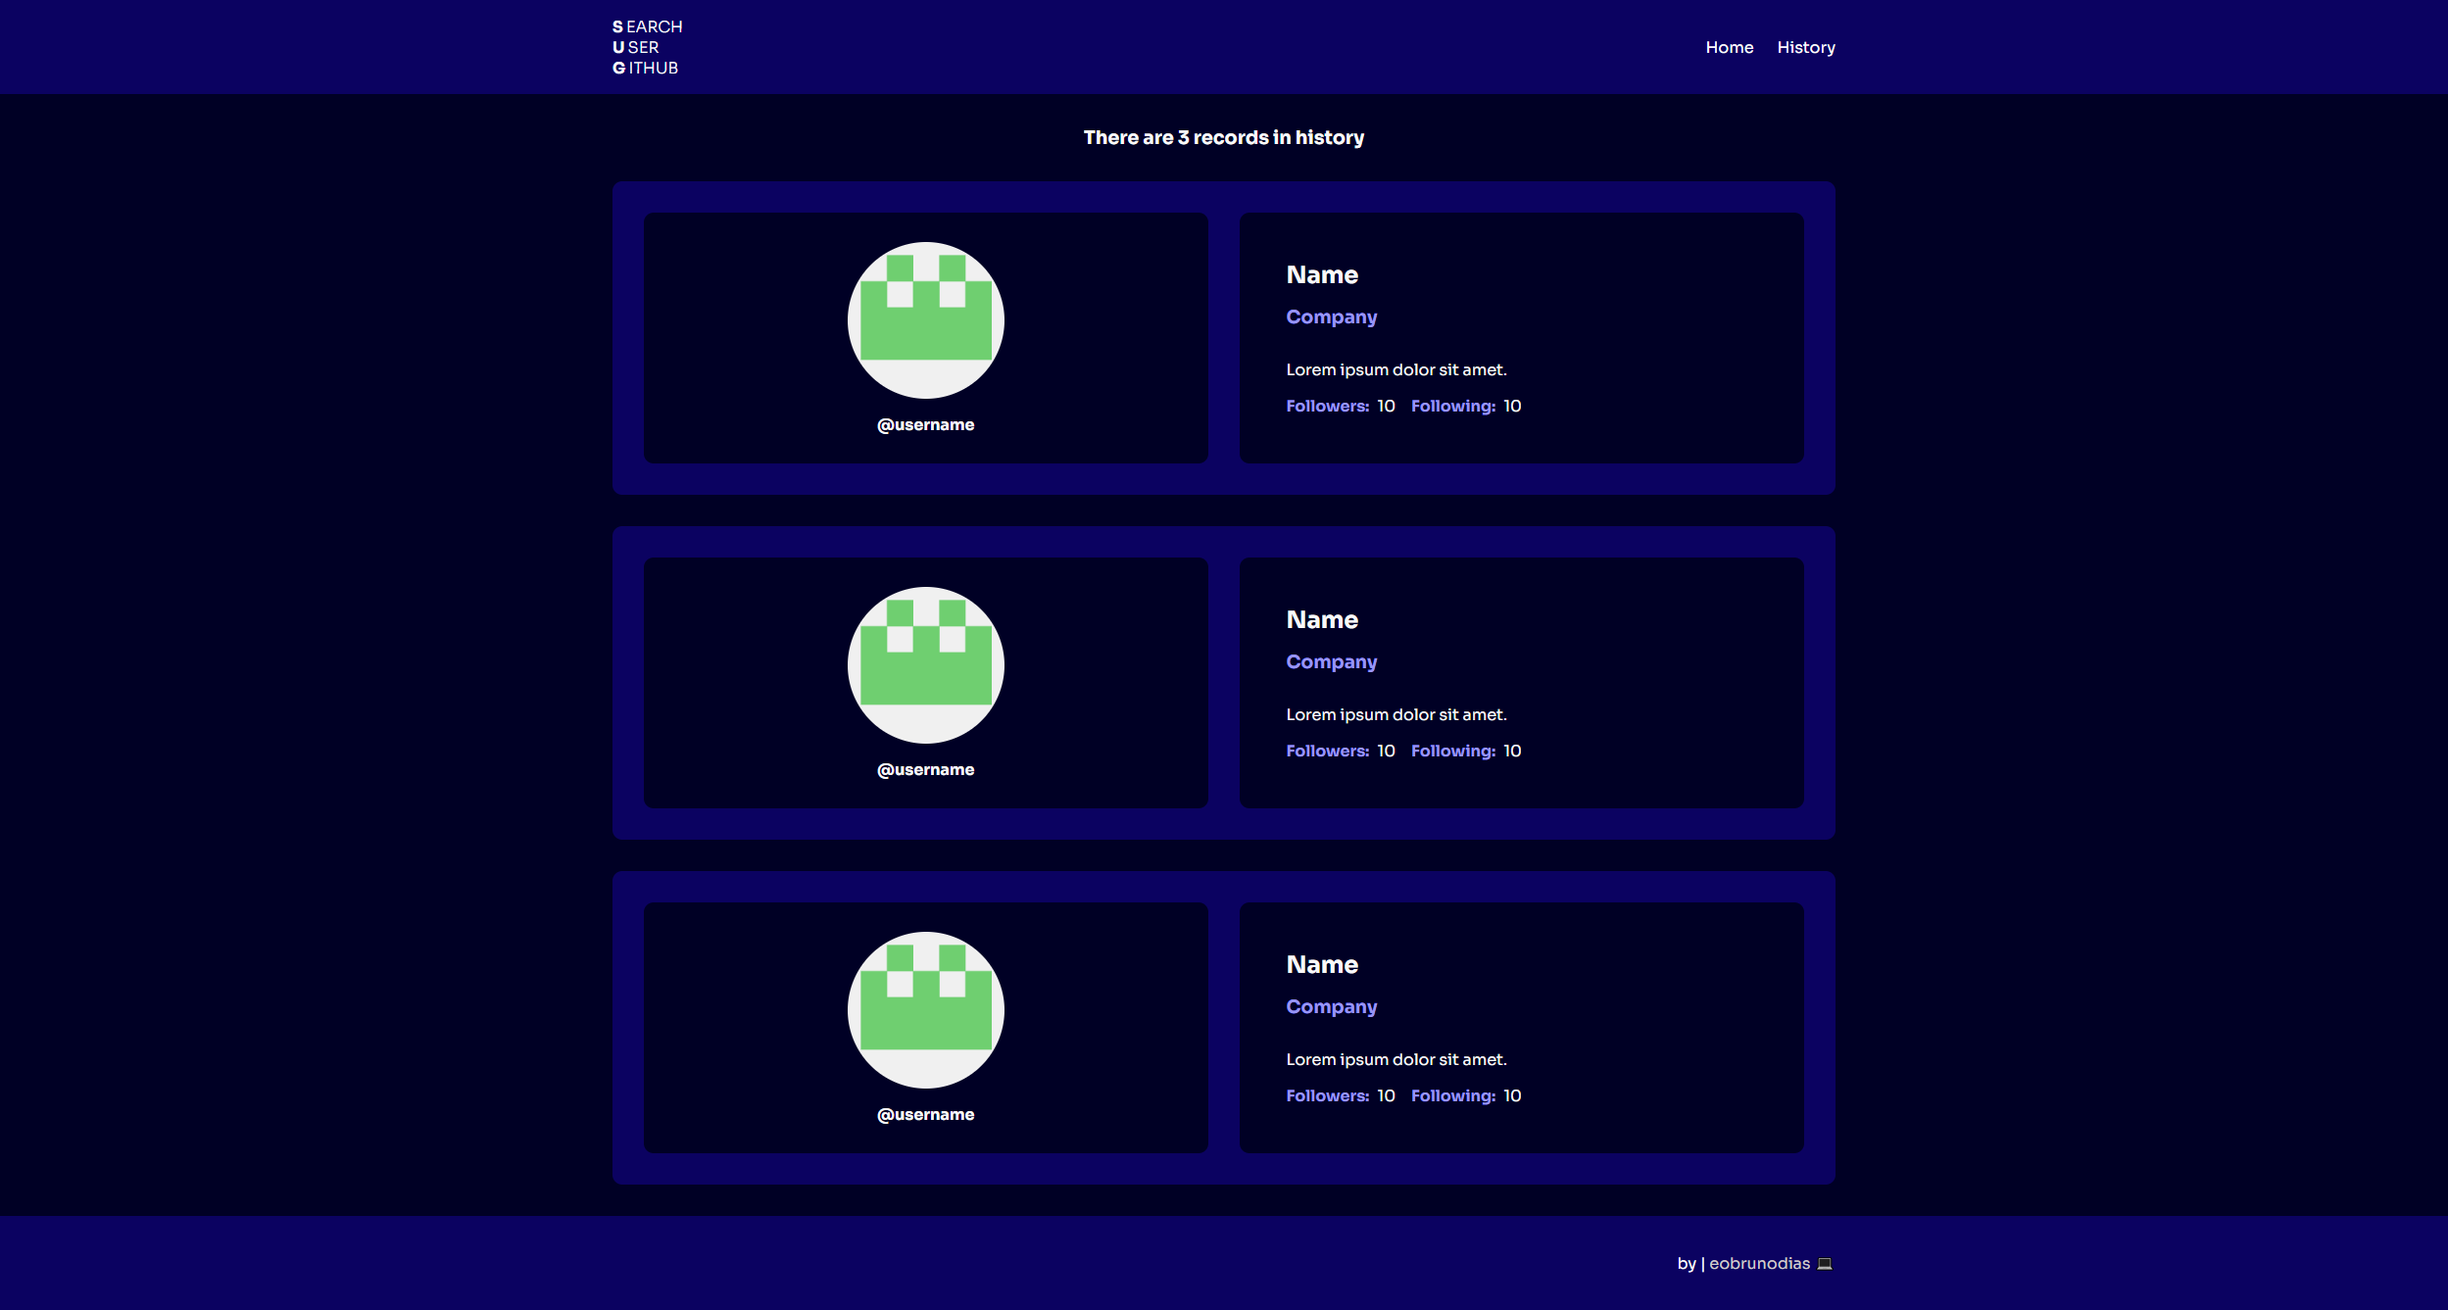
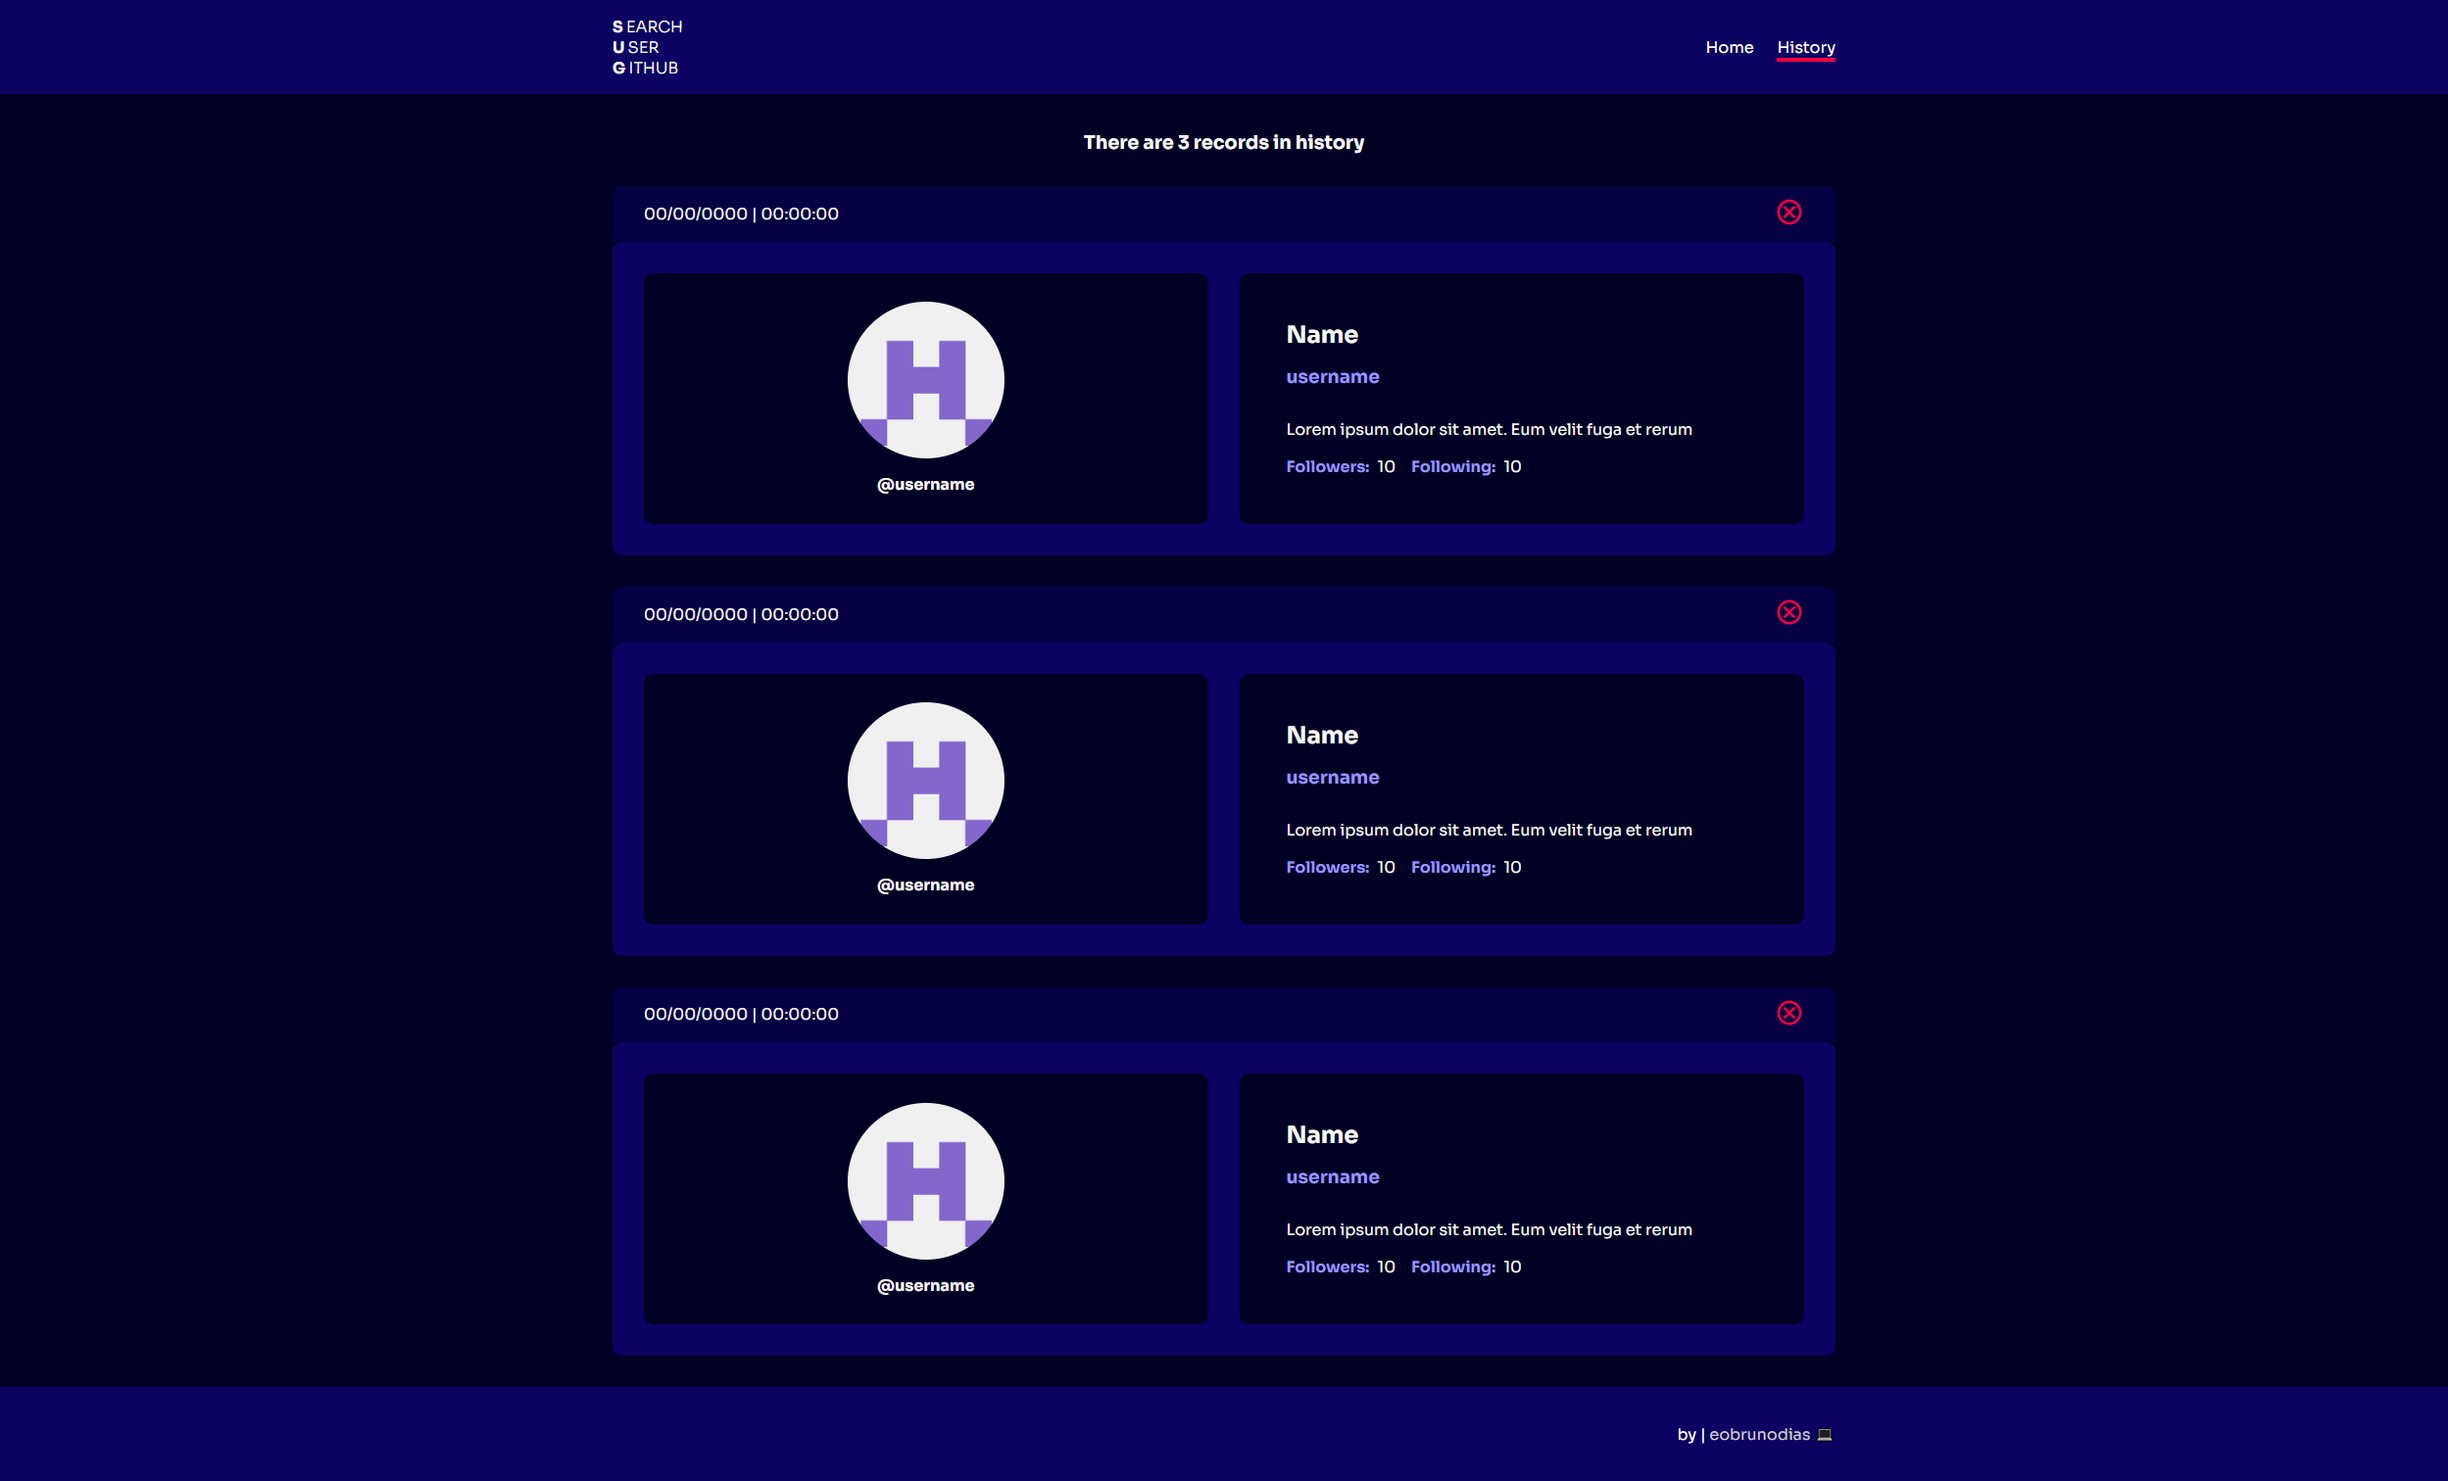
chore: update readme

Changed region(s): [[0.0, 0.368, 1.0, 0.9813], [0.0, 0.0, 1.0, 0.3373]]

diff --git a/README_pt-br.md b/README_pt-br.md
@@ -25,6 +25,11 @@ A página de histórico exibe uma lista de pesquisas anteriores de usuários, pe
 - 🌐 **Integração de API**: Busque dados diretamente da API do GitHub para obter resultados em tempo real;
 - 💾 **Local Storage**: Salve o histórico de pesquisa mesmo após atualizar ou fechar o navegador.
 
+### New Features
+
+- 🗑 **Remover Usuário do Histórico**: Permite remover um usuário do histórico com um único clique.
+- 📅 **Data de Pesquisa**: Registra a data e hora em que você pesquisou um usuário.
+
 ## 🛠 Tecnologias usadas
 
 ![TypeScript](https://img.shields.io/badge/TypeScript-3178C6?style=for-the-badge&logo=typescript&logoColor=white) ![Vue](https://img.shields.io/badge/vuejs-%2335495e.svg?style=for-the-badge&logo=vuedotjs&logoColor=%234FC08D) ![Vite](https://img.shields.io/badge/Vite-646CFF?style=for-the-badge&logo=vite&logoColor=white)

diff --git a/README.md b/README.md
@@ -27,6 +27,11 @@ The history page displays a list of previous user searches, allowing you to revi
 - 🌐 **API Integration**: Fetch data directly from the GitHub API for real-time results.
 - 💾 **Local Storage**: Save search history even after refreshing or closing the browser.
 
+### New Features
+
+- 🗑 **Remove User of History**: Easily remove a user from the history with just one click.
+- 📅 **Search Date**: Records the date and time when you searched for a user.
+
 ## 🛠 Technologies Used
 
 ![TypeScript](https://img.shields.io/badge/TypeScript-3178C6?style=for-the-badge&logo=typescript&logoColor=white) ![Vue](https://img.shields.io/badge/vuejs-%2335495e.svg?style=for-the-badge&logo=vuedotjs&logoColor=%234FC08D) ![Vite](https://img.shields.io/badge/Vite-646CFF?style=for-the-badge&logo=vite&logoColor=white)
